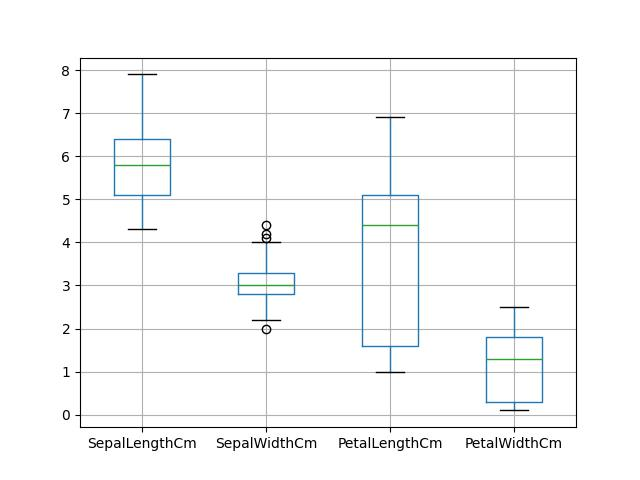
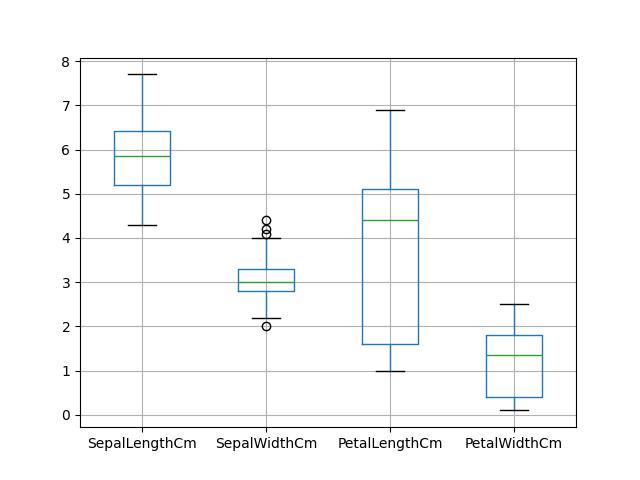
Updated Assignment 1
Adjusted the training sets for the analysis to only analyse 80% of the dataset

diff --git a/Assignment 1/main.py b/Assignment 1/main.py
@@ -39,8 +39,11 @@ print(duplicates, "\n--------- The above duplicated data has been removed ------
 # remove the duplicated data
 ds.drop_duplicates(inplace=True)
 
+# this will split the dataset into train and test (80/20), analyse the train set
+x_split, y_split = train_test_split(ds, test_size=0.2, train_size=0.8, random_state=0)
+
 # Question 2
-ds.boxplot()
+x_split.boxplot()
 plt.savefig('boxplot.jpg', format='jpg')
 # plt.show()
 # 2a) boxplot plots the outliers as circles within the diagram.
@@ -49,7 +52,7 @@ plt.savefig('boxplot.jpg', format='jpg')
 # Question 3
 plt.figure()
 sns.set_style("ticks")
-sns.pairplot(ds, hue="Species")
+sns.pairplot(x_split, hue="Species")
 plt.savefig('scatter.jpg', format='jpg')
 # plt.show()
 # From the scatter plot, we can visually group the various species.
@@ -59,7 +62,7 @@ plt.savefig('scatter.jpg', format='jpg')
 
 # Question 4
 plt.figure()
-trainMap = ds.pivot_table(index="Species", aggfunc="median")
+trainMap = x_split.pivot_table(index="Species", aggfunc="median")
 sns.heatmap(trainMap, annot=True)
 plt.savefig('heatmap.jpg', format='jpg')
 # plt.show()
@@ -86,6 +89,11 @@ nds[normalise_c] = std_scale.fit_transform(nds[normalise_c])
 x = nds.drop(['Species'], axis=1)
 y = nds['Species']
 # print(nds)
+
+x_train = x_split.drop(['Species'], axis=1)
+y_train = x_split.drop(['Species'], axis=1)
+x_test = y_split(['Species'])
+y_test = y_split(['Species'])
 
 # this will split the dataset into train and test (80/20)
 x_train, x_test, y_train, y_test = train_test_split(x, y, test_size=0.2, train_size=0.8, random_state=0)
@@ -128,7 +136,7 @@ plt.ylabel('Accuracy')
 plt.title('Accuracy vs Number of Neighbors')
 plt.xticks(n_range)
 plt.grid(True)
-# plt.show()
+plt.show()
 
 # Re-Evaluating this fella!
 knn1 = KNeighborsClassifier(n_neighbors=bn, weights='uniform', algorithm='auto', metric='euclidean')
@@ -166,7 +174,6 @@ accuracy = metrics.accuracy_score(y_test, y_pred) * 100
 print(f"\nAccuracy (in %): {accuracy:.2f}")
 
 print(classification_report(y_test, y_pred))
-print("--------------------------------------------------------")
 
 misclassified_indices = y_test.index[y_test != y_pred]
 misclassified_flowers = ds.loc[misclassified_indices]
